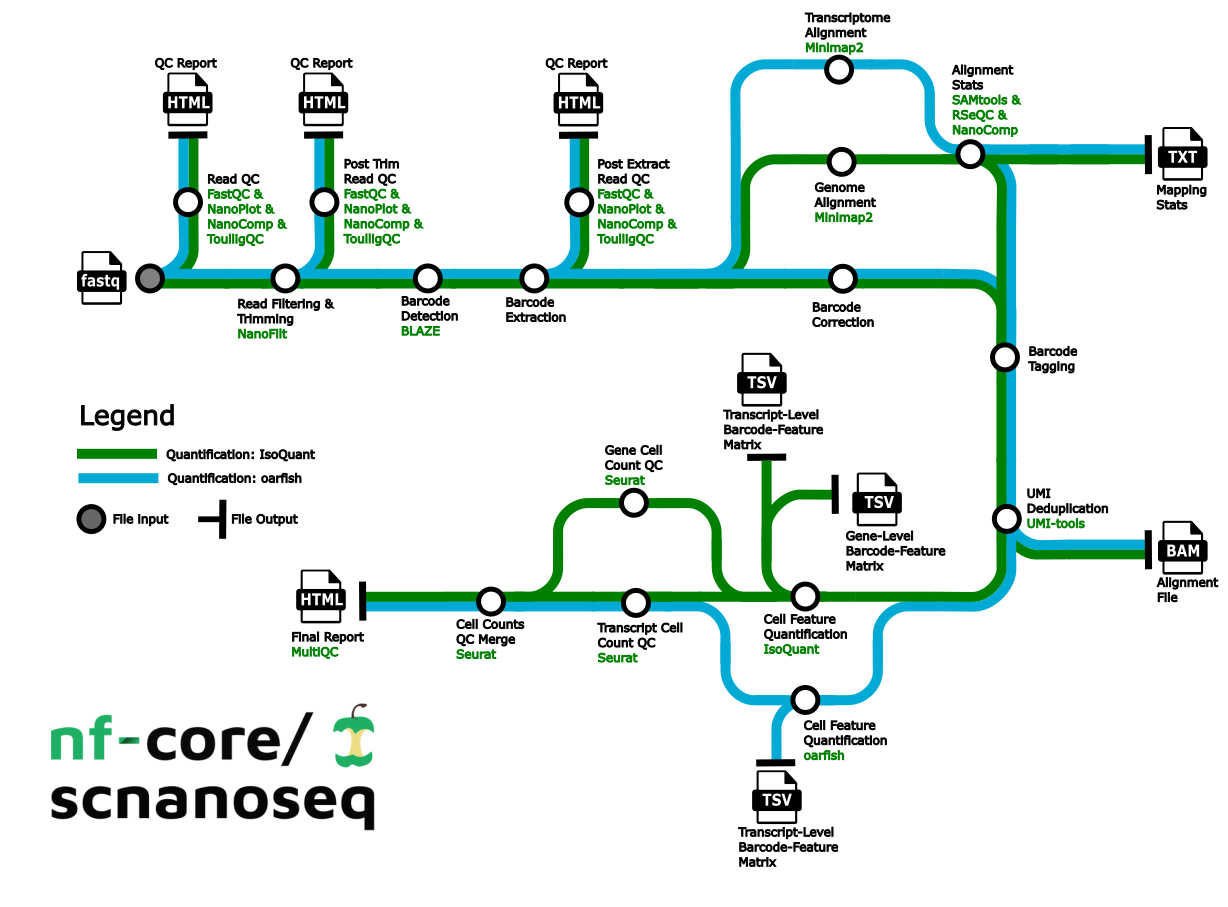
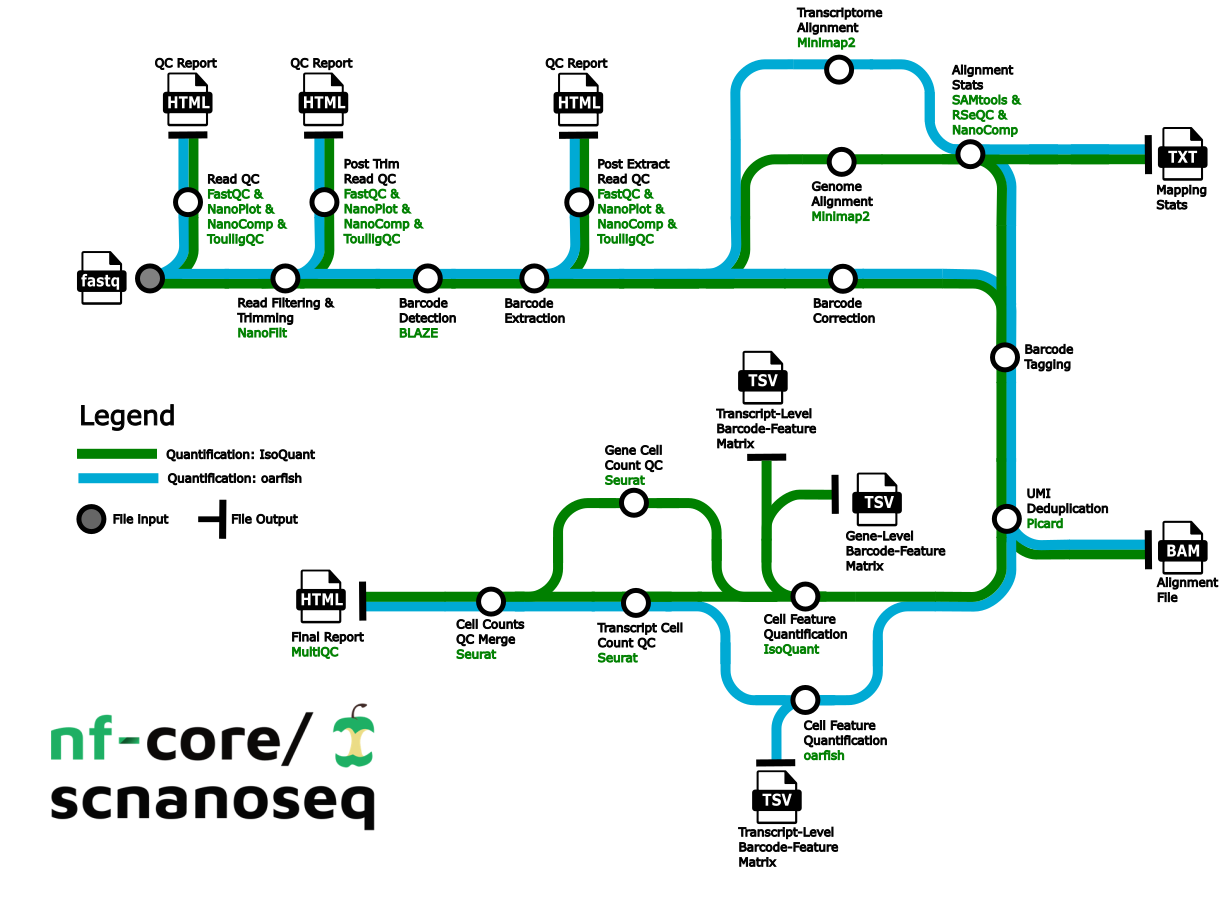
Updating documentation

diff --git a/docs/output.md b/docs/output.md
@@ -19,7 +19,7 @@ The pipeline is built using [Nextflow](https://www.nextflow.io/) and processes d
 - [Alignment Post-processing](#alignment-post-processing)
   - [Samtools](#samtools) - Sort and index alignments and make alignment qc
   - [Barcode Tagging](#barcode-tagging) - Barcode tagging with quality metrics and barcode information
-  - [UMI Deduplication](#umi-deduplication) - UMI-based deduplication
+  - [Deduplication](#deduplication) - Read deduplication
 - [Feature-Barcode Quantification](#feature-barcode-quantification)
   - [IsoQuant](#isoquant) - Feature-barcode quantification (gene and transcript level)
   - [oarfish](#oarfish) - Feature-barcode quantification (transcript-level only)
@@ -179,7 +179,7 @@ UMI quality tag = "UY"
 
 Please see [Barcode Correction](#barcode-correction) below for metadata added post-correction.
 
-### UMI Deduplication
+### Deduplication
 
 <details markdown="1">
 <summary>Output files</summary>
@@ -198,7 +198,7 @@ Please see [Barcode Correction](#barcode-correction) below for metadata added po
 
 </details>
 
-[UMI-Tools](https://umi-tools.readthedocs.io/en/latest/reference/dedup.html) deduplicate reads based on the mapping co-ordinate and the UMI attached to the read. The identification of duplicate reads is performed in an error-aware manner by building networks of related UMIs.
+[Picard MarkDuplicates](https://gatk.broadinstitute.org/hc/en-us/articles/360037052812-MarkDuplicates-Picard) locates and tags duplicate reads in a BAM or SAM file.
 
 Users should note that `oarfish` requires input reads to be deduplicated. As a result, the `skip_dedup` option is only applicable to `IsoQuant`. By default, `scnanoseq` will perform deduplication for IsoQuant unless the `skip_dedup` option is explicitly enabled, while deduplication will always be executed for `oarfish` quantification.
 

diff --git a/README.md b/README.md
@@ -44,7 +44,7 @@ On release, automated continuous integration tests run the pipeline on a full-si
 10. Post-alignment filtering of mapped reads and gathering mapping QC ([`SAMtools`](http://www.htslib.org/doc/samtools.html))
 11. Post-alignment QC in unfiltered BAM files ([`NanoComp`](https://github.com/wdecoster/nanocomp), [`RSeQC`](https://rseqc.sourceforge.net/))
 12. Barcode (BC) tagging with read quality, BC quality, UMI quality (custom script `./bin/tag_barcodes.py`)
-13. UMI-based deduplication ([`UMI-tools`](https://github.com/CGATOxford/UMI-tools))
+13. Read deduplication ([`Picard MarkDuplicates`](https://broadinstitute.github.io/picard/))
 14. Gene and transcript level matrices generation with [`IsoQuant`](https://github.com/ablab/IsoQuant) and/or transcript level matrices with [`oarfish`](https://github.com/COMBINE-lab/oarfish)
 15. Preliminary matrix QC ([`Seurat`](https://github.com/satijalab/seurat))
 16. Compile QC for raw reads, trimmed reads, pre and post-extracted reads, mapping metrics and preliminary single-cell/nuclei QC ([`MultiQC`](http://multiqc.info/))

diff --git a/CITATIONS.md b/CITATIONS.md
@@ -56,9 +56,7 @@
 
   > Karine Dias, Bérengère Laffay, Lionel Ferrato-Berberian, Sophie Lemoine, Ali Hamraoui, Morgane Thomas-Chollier, Stéphane Le Crom and Laurent Jourdren.
 
-- [UMI-tools](https://pubmed.ncbi.nlm.nih.gov/28100584/)
-
-  > Smith T, Heger A, Sudbery I. UMI-tools: modeling sequencing errors in Unique Molecular Identifiers to improve quantification accuracy Genome Res. 2017 Mar;27(3):491-499. doi: 10.1101/gr.209601.116. Epub 2017 Jan 18. PubMed PMID: 28100584; PubMed Central PMCID: PMC5340976.
+- [Picard](https://broadinstitute.github.io/picard/)
 
 - [UCSC tools](https://pubmed.ncbi.nlm.nih.gov/20639541/)
 
